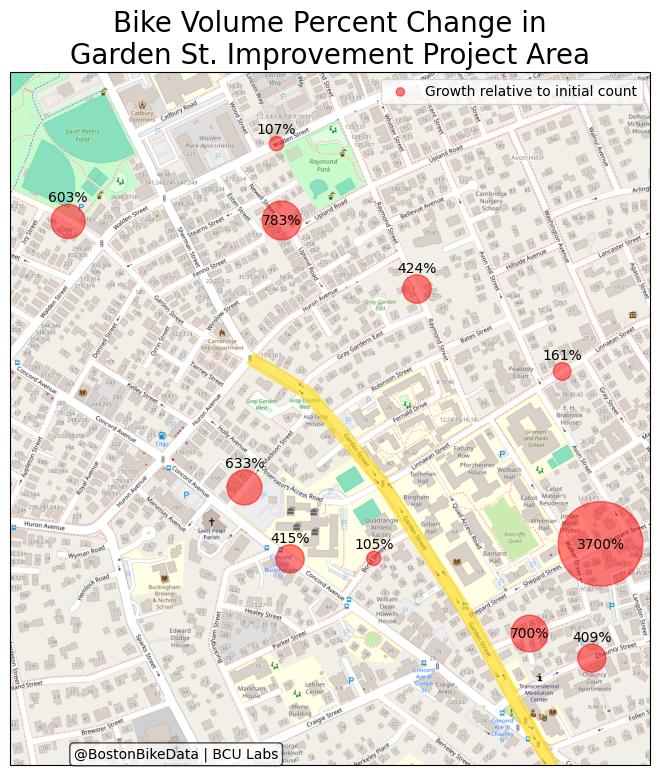
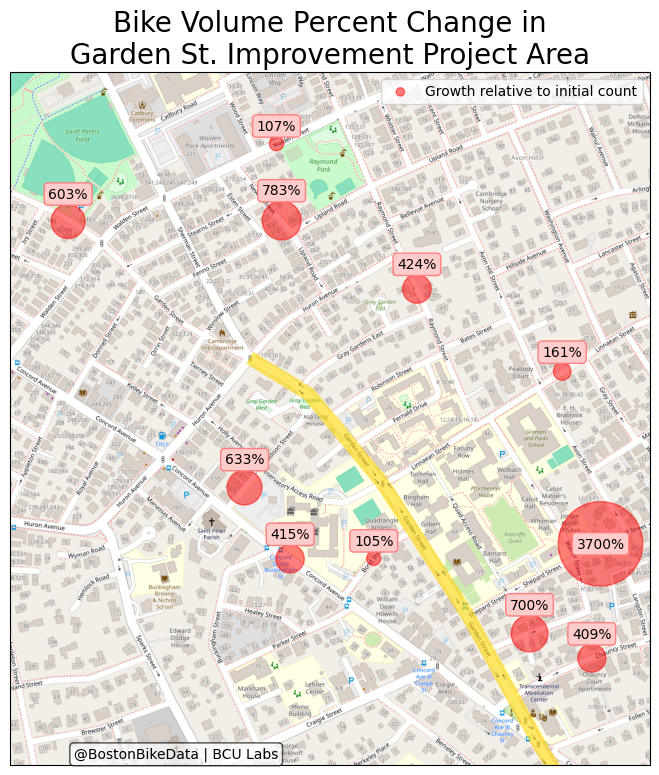
small plot changes

diff --git a/dataSources/garden st/extract_garden_data.py b/dataSources/garden st/extract_garden_data.py
@@ -429,7 +429,7 @@ figsize = (15, 9)
 dpi = 100
 
 markersize = 10
-linewidth = 5
+linewidth = 4
 s = 75
 
 titleFont = 20
@@ -716,15 +716,15 @@ def plot_volume_adjusted(dfGrowthSummary, dfDate, dfBB, dfBway, dfBaseline):
     # Plot mean growth numbers
     measColor = 'green'
     plt.plot(dfGrowthSummary.index, dfGrowthSummary['Volume_Norm_100'],
-             marker='o', markersize=markersize,
-             markerfacecolor=measColor, markeredgecolor=measColor,
+             marker='o', markersize=markersize*0.8,
+             markerfacecolor=measColor, markeredgecolor=measColor, alpha=0.5,
              linestyle='None')
     plt.plot(dfGrowthSummary.index, dfGrowthSummary['Volume_Norm_100'].rolling('56D', center=True).mean(),
-             color=measColor, linewidth=linewidth,
+             color=measColor, linewidth=linewidth/2, alpha=0.5,
              label='Month Average')
     measuredDate = datetime.date(2023,2,1)
     measuredY = 165
-    ax.annotate('Bike volume measured', 
+    ax.annotate('Garden Street area\nmeasured bike volume', 
                 xy=(measuredDate, measuredY), 
                 xytext=(measuredDate - datetime.timedelta(days=5), measuredY+50),
                 horizontalalignment='center',
@@ -759,11 +759,11 @@ def plot_volume_adjusted(dfGrowthSummary, dfDate, dfBB, dfBway, dfBaseline):
              markerfacecolor=adjustedColor, markeredgecolor=adjustedColor,
              linestyle='None')
     plt.plot(dfGrowthSummary.index, dfGrowthSummary['Adjusted_Volume_Baseline_100'].rolling('56D', center=True).mean(),
-             color=adjustedColor, linewidth=linewidth,
+             color=adjustedColor, linewidth=linewidth, linestyle='--',
              label='Month Average adjusted for bike volume in Cambridge')
     adjustedDate = datetime.date(2022,12,30)
     adjustedY = 230
-    ax.annotate('Adjusted bike volume\n(measured/baseline)', 
+    ax.annotate('Garden Street area\nadjusted bike volume\n(measured/baseline)', 
                 xy=(adjustedDate, adjustedY), 
                 xytext=(adjustedDate - datetime.timedelta(days=5), adjustedY+40),
                 horizontalalignment='right', verticalalignment='center',
@@ -853,18 +853,26 @@ def plot_bike_growth_map(countLocale, projectPath, dfGardenLoc):
 
         # print(f'{count}: [{newLat}, {newLong}] = {newGrowth}')
 
+    # Add values of bubbles
     sc = plt.scatter(long, lat, transform=ccrs.PlateCarree(),
                      marker='o', color='red', s=growth, alpha=0.5,
                      linestyle='', label='Growth relative to initial count')
     for i, v in enumerate(growth):
-        if v < 700:
-            latText = lat[i] + 0.00001 * np.sqrt(v) + 0.0001
+        if v < 800:
+            offcenter = 0.00001 * np.sqrt(v) + 0.00015
+            latText = lat[i] + offcenter
+            print(f'{v:0.0f} | {offcenter:0.5f}')
         else:
             latText = lat[i]
         ax.text(long[i], latText, f'{v:0.0f}%', 
                 ha="center", va="center",
+                bbox=dict(boxstyle="round",
+                   ec=(1., 0.5, 0.5),
+                   fc=(1., 0.8, 0.8),
+                   ),
                 transform=ccrs.PlateCarree(),)
 
+    # Add project area
     plt.plot(projectPath[:, 1], projectPath[:, 0], transform=ccrs.PlateCarree(),
              alpha=0.6, color='gold', linewidth=10)
     
@@ -985,7 +993,7 @@ def main():
     #                      dfBaseline)
 
     plot_bike_growth_map(countLocations, projectArea, dfGardenLoc)
-    plot_bike_volume_map(countLocations, projectArea, dfGardenLoc)
+    # plot_bike_volume_map(countLocations, projectArea, dfGardenLoc)
 
 if __name__ == '__main__':
     main()
